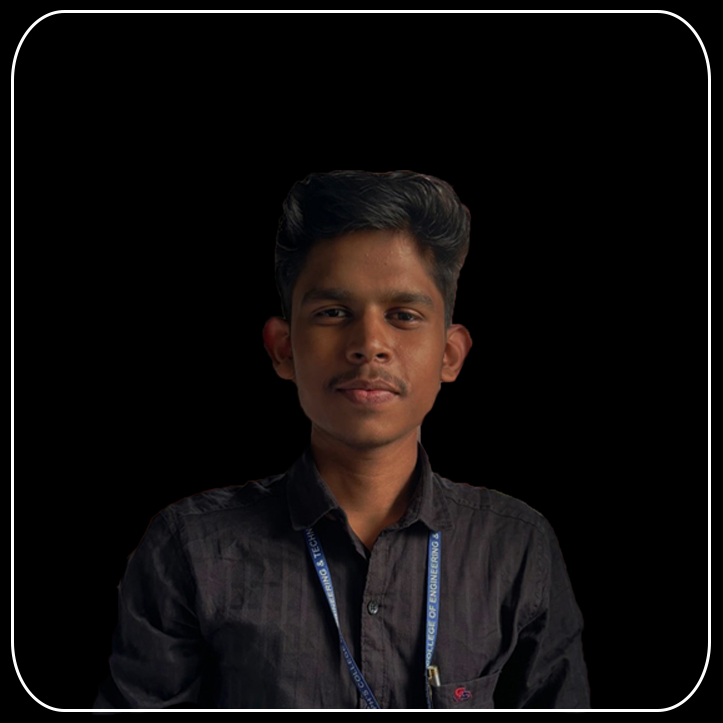
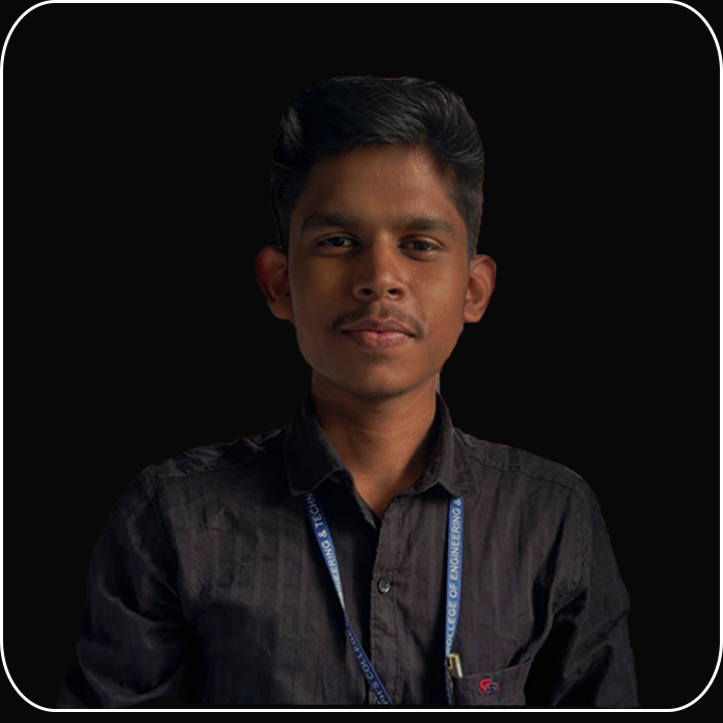
changes

diff --git a/style.css b/style.css
@@ -51,7 +51,7 @@ nav ul li {
 nav ul li a {
     color: #fff;
     text-decoration: none;
-    font-size: 16px;
+    font-size: 15px;
     position: relative;
 }
 
@@ -508,22 +508,22 @@ form .btn2 {
 .header-profile-img {
     display: block;
     margin: -80px auto 24px auto; /* Lift image upwards and center */
-    width: 250px;
-    height: 250px;
+    width: 350px;
+    height: 350px;
 }
 
 @media (max-width: 900px) {
     .header-profile-img {
-        width: 160px;
-        height: 160px;
+        width: 260px;
+        height: 260px;
         margin: -32px auto 18px auto; /* Adjust lift and spacing */
     }
 }
 
 @media (max-width: 600px) {
     .header-profile-img {
-        width: 120px;
-        height: 120px;
+        width: 220px;
+        height: 220px;
         margin: -16px auto 12px auto; /* Further adjust for small screens */
     }
 }
@@ -543,6 +543,27 @@ form .btn2 {
 }
 
 @media (max-width: 900px) {
+    nav {
+        flex-wrap: nowrap;
+        overflow-x: auto;
+    }
+    .nav-name {
+        font-size: 18px;
+        min-width: 120px;
+        margin-right: 8px;
+        padding-left: 4px;
+        padding-right: 4px;
+        white-space: nowrap;
+    }
+    #sidemenu {
+        flex-wrap: nowrap;
+        display: flex;
+        gap: 8px;
+    }
+    #sidemenu li {
+        margin: 0 4px;
+        white-space: nowrap;
+    }
     .header-text {
         font-size: 26px;
         margin-top: 18%;
@@ -770,6 +791,38 @@ form .btn2 {
     }
     #sidemenu.active ~ #bar-icon {
         display: none;
+    }
+}
+
+.nav-name {
+    font-family: 'Poppins', sans-serif;
+    font-weight: 600;
+    color: #0d86c7;
+    font-size: 20px;
+    letter-spacing: 1px;
+    margin-right: 32px;
+    margin-left: 0;
+    line-height: 56px;
+    cursor: default;
+    pointer-events: none;
+    flex-shrink: 0;
+    white-space: nowrap;
+}
+
+/* Responsive for mobile screens */
+@media (max-width: 600px) {
+    .nav-name {
+        font-size: 22px;
+        margin-right: 12px;
+        margin-left: 0;
+        line-height: 1.2;
+        padding-left: 8px;
+        padding-top: 8px;
+        padding-bottom: 8px;
+    }
+    nav {
+        flex-direction: row;
+        align-items: center;
     }
 }
 

diff --git a/index.html b/index.html
@@ -12,6 +12,7 @@
 <div id="header">
     <div class="container">
         <nav>
+            <div class="nav-name">Aromal M S</div>
             <img src="" class="logo">
             <ul id="sidemenu">
                 <li><a href="#header">Home</a></li>
@@ -20,6 +21,7 @@
                 <li><a href="#achievements">Achievements</a></li>
                 <li><a href="#contact">Contact</a></li>
             </ul>
+            
             <i id="close-icon" class="fa-solid fa-circle-xmark" onclick="closemenu()"></i>
             <i id="bar-icon" class="fa-solid fa-bars" onclick="openmenu()"></i>
         </nav>
@@ -36,12 +38,9 @@
         <div class="row">
             <div class="about-col-1">
                 <h1 class="sub-title">About Me</h1>
-                <p class="para"> I’m a developer passionate about building meaningful apps, especially with Flutter for mobile. I’ve worked
-            on creating user-friendly mobile apps and am currently expanding my skills in full-stack development. While
-            still growing in this area, I’ve gained hands-on experience with both frontend and backend tasks. I’m always
-            learning and improving, tackling problem-solving challenges on platforms like Leetcode and HackerRank. I enjoy
-            collaborating in teams to build efficient solutions and am excited to keep growing as a developer while working
-            on projects that make a real impact.</p>
+                <p class="para">
+    I’m a developer passionate about building meaningful apps that deliver smooth, user-friendly experiences—especially on mobile using Flutter. My journey has involved creating intuitive applications and expanding my expertise into full-stack development, where I’ve gained hands-on experience with both frontend and backend technologies. I thrive on continuous learning and enjoy collaborating with others to solve problems and build efficient solutions. Driven by curiosity and a desire to make a real impact, I’m excited to keep growing as a developer and contribute to projects that matter.
+</p>
             </div>
         </div>
     </div>
